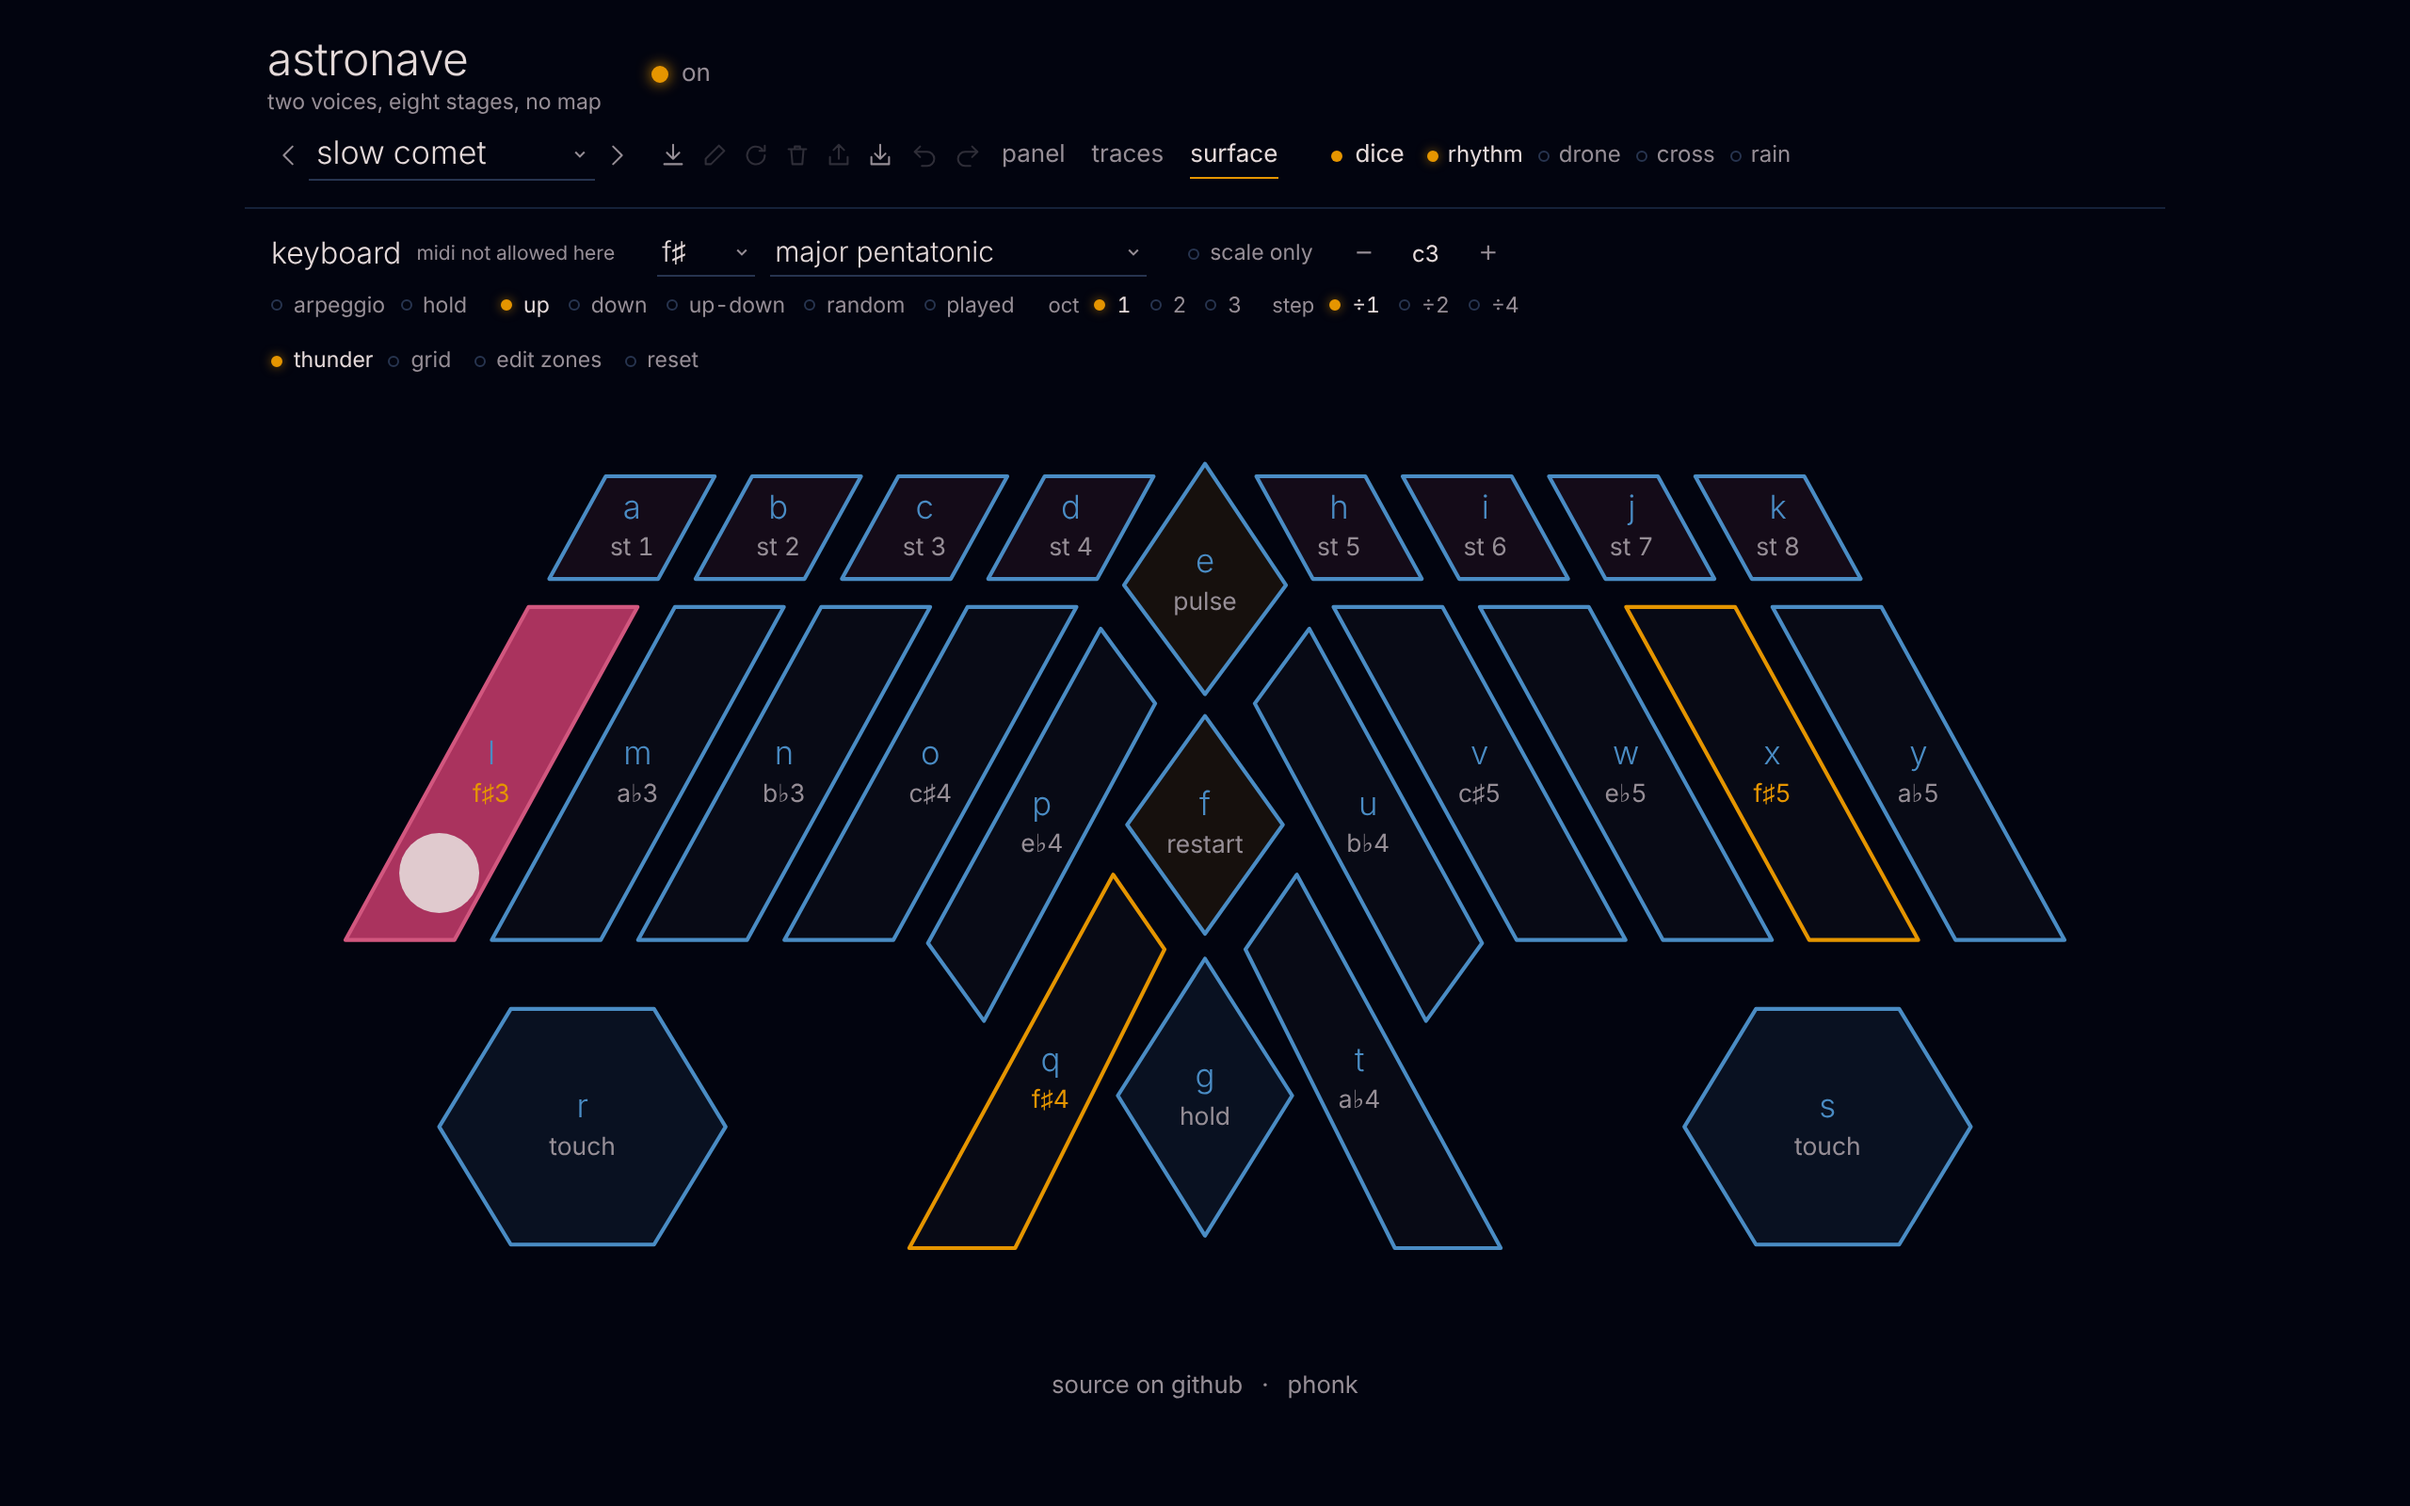
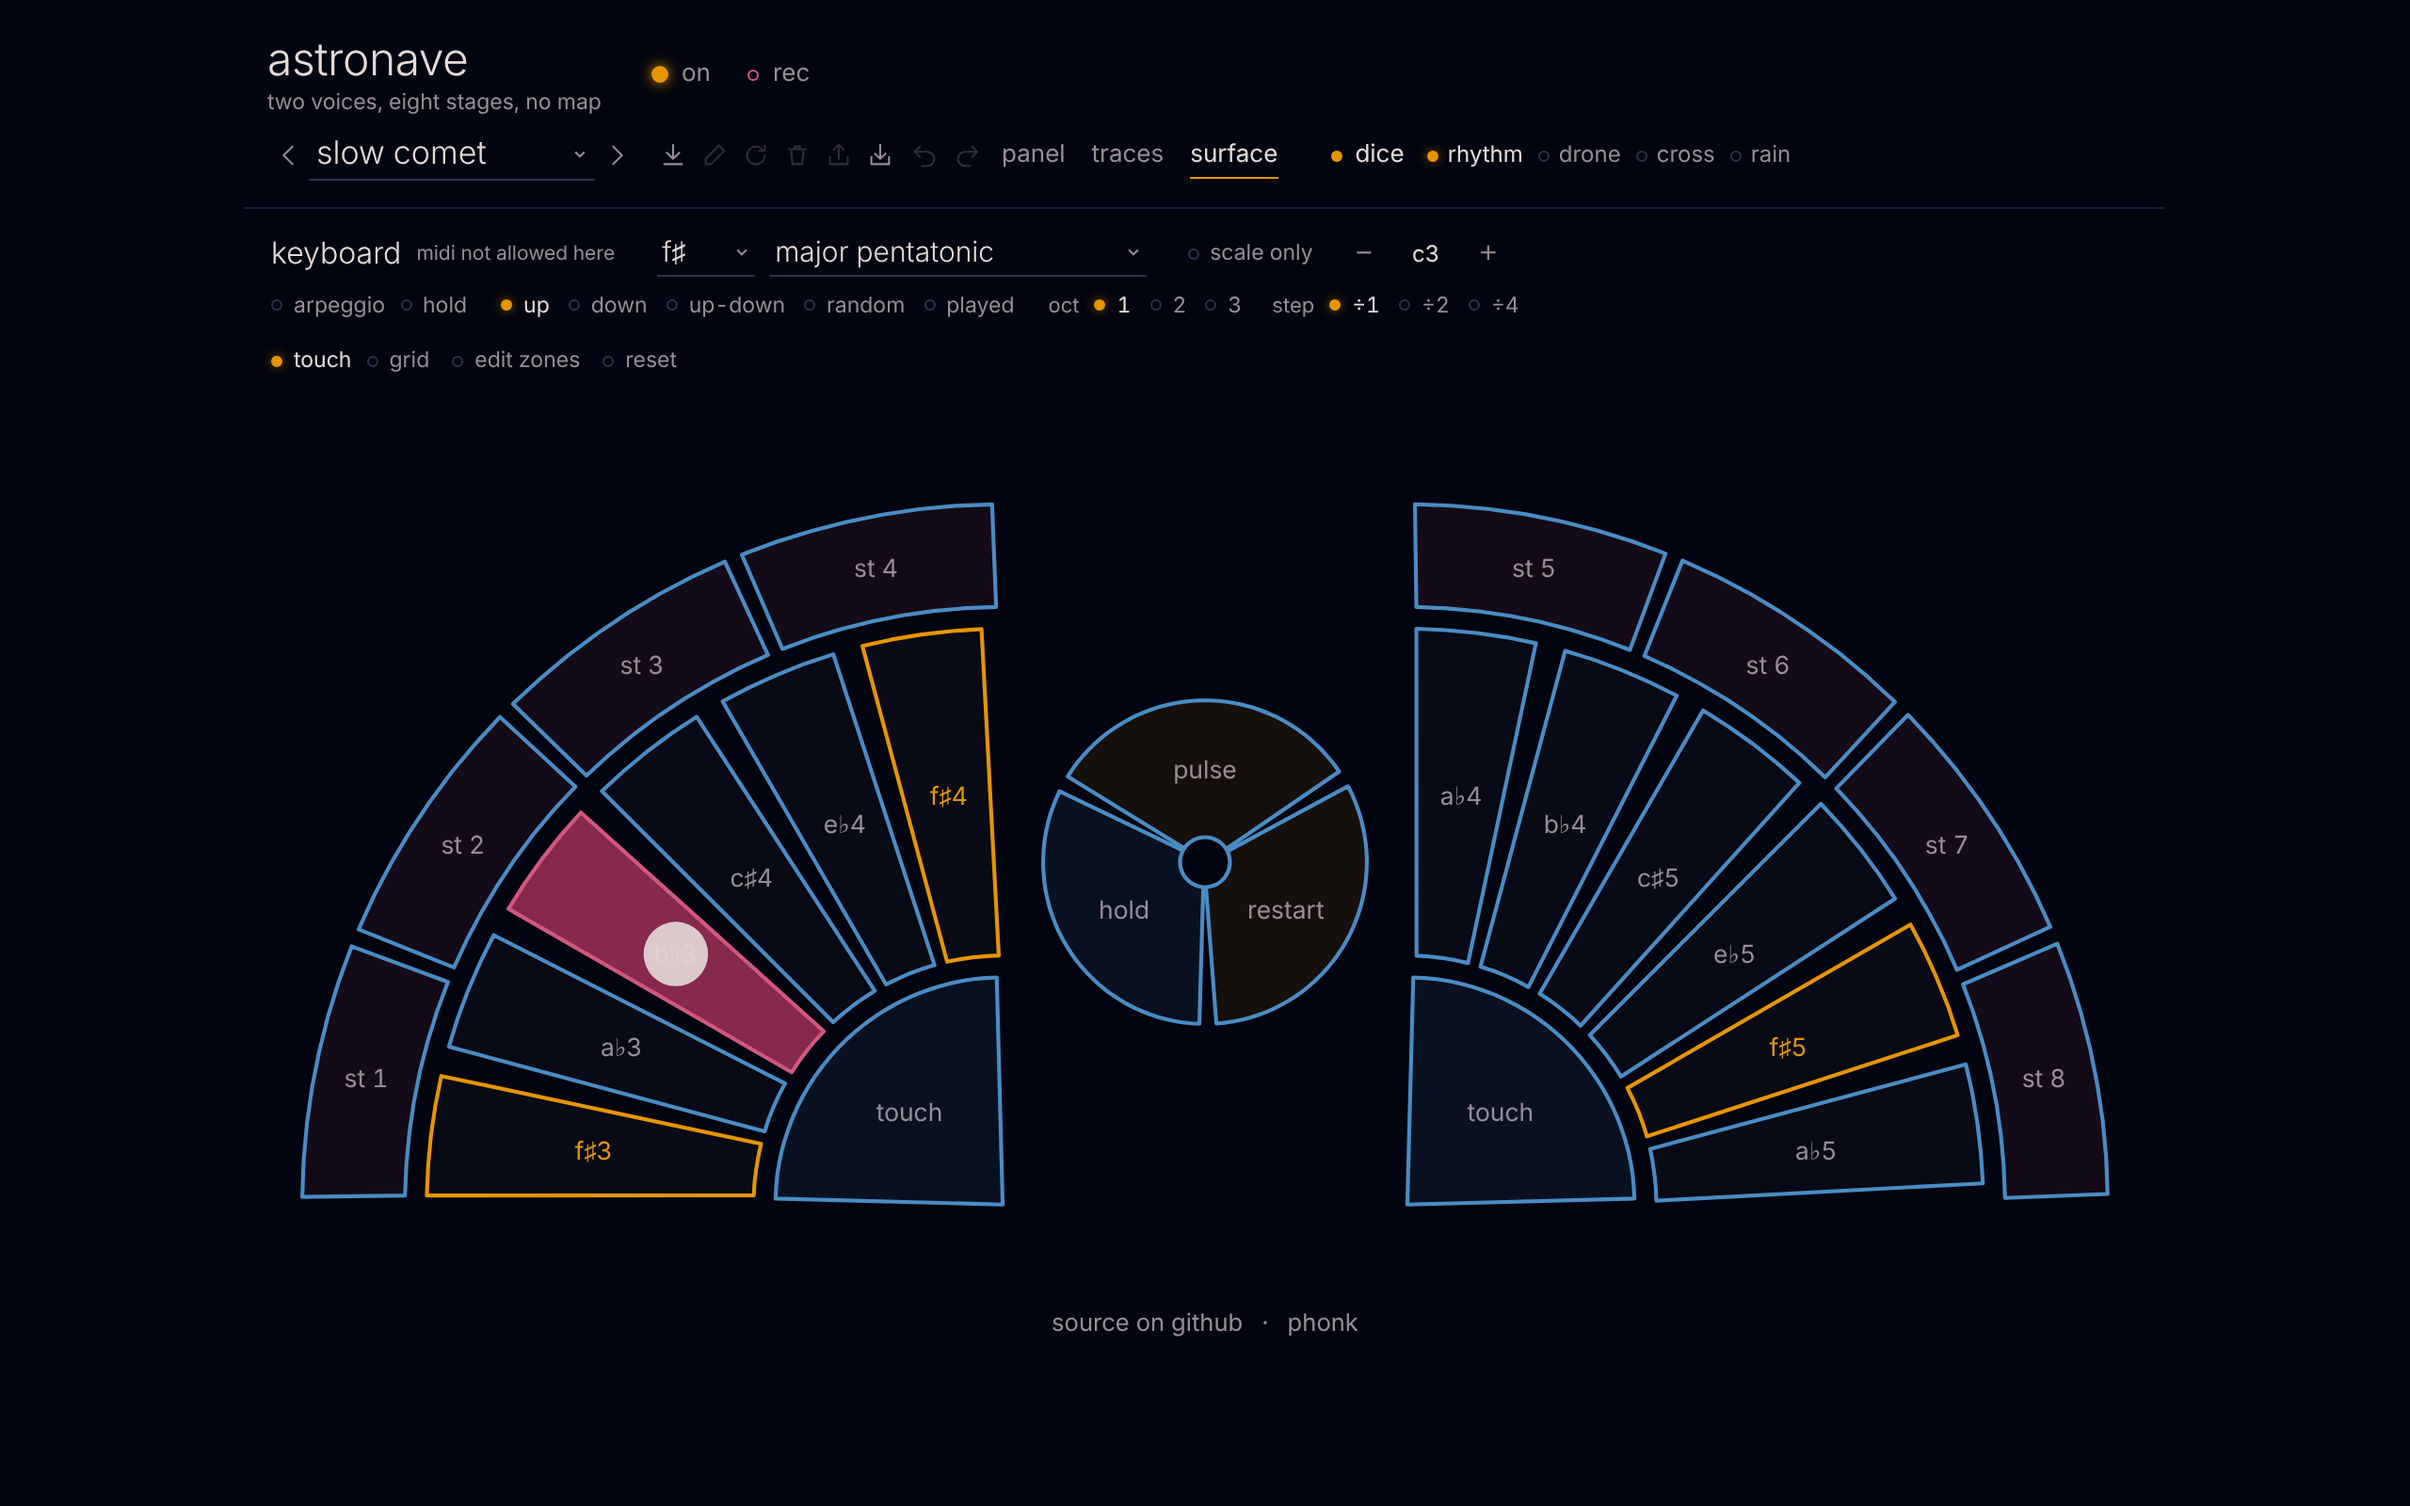
Surface: the touch layout, two fans of notes in place of the 222e plates
Claude-Session: https://claude.ai/code/session_01PvgmHvwhiyFcCBxUVUBzGg

diff --git a/index.html b/index.html
@@ -592,7 +592,7 @@ body{font-weight:400;font-variant-numeric:tabular-nums}
     <div class="keys" id="keys"></div>
     <div class="surf" id="surf">
       <div class="sftool">
-        <div class="seg" id="sfLay" role="group" aria-label="Surface layout"><button class="chip" data-l="222e">Thunder</button><button class="chip" data-l="grid">Grid</button></div>
+        <div class="seg" id="sfLay" role="group" aria-label="Surface layout"><button class="chip" data-l="touch">Touch</button><button class="chip" data-l="grid">Grid</button></div>
         <button class="chip" id="sfEdit" aria-pressed="false">Edit zones</button>
         <button class="chip" id="sfReset">Reset</button>
         <div class="zed" id="zed" hidden></div>
@@ -1866,30 +1866,33 @@ function dgFrame(ts, running) {
   }
 }
 
-/* ---------------- zone surface (222e style), configurable per zone ---------------- */
+/* ---------------- zone surface, configurable per zone ---------------- */
 const SF_ROLES = [['note', 'Note'], ['stage', 'Stage'], ['pulse', 'Pulse'], ['restart', 'Restart'], ['touch', 'Touch'], ['hold', 'Hold'], ['off', 'Off']];
-function sfMirror(z, id) { return { id, pts: z.pts.map(([x, y]) => [1200 - x, y]) }; }
-function sfHex(cx, cy, r) { const p = []; for (let k = 0; k < 6; k++) { const a = k * Math.PI / 3; p.push([cx + r * Math.cos(a), cy + r * Math.sin(a) * 0.95]); } return p; }
 const SF_LAYOUTS = (() => {
   const L = {};
-  // 222e: left half drawn, right half mirrored
-  const left = {};
-  const sl = 0.55, bar = (x, y0, y1) => [[x - sl * (y0 - 135), y0], [x + 70 - sl * (y0 - 135), y0], [x + 70 - sl * (y1 - 135), y1], [x - sl * (y1 - 135), y1]];
-  'ABCD'.split('').forEach((id, i) => { const x = 215 + i * 94; left[id] = { id, pts: [[x, 52], [x + 70, 52], [x + 70 - sl * 66, 118], [x - sl * 66, 118]] }; });
-  'LMNO'.split('').forEach((id, i) => { left[id] = { id, pts: bar(166 + i * 94, 136, 350) }; });
-  left.P = { id: 'P', pts: [[533, 150], [568, 198], [458, 402], [422, 352]] };
-  left.Q = { id: 'Q', pts: [[541, 308], [574, 356], [478, 548], [410, 548]] };
-  left.R = { id: 'R', pts: sfHex(200, 470, 92) };
-  const mid = { E: [[600, 44], [652, 122], [600, 192], [548, 122]], F: [[600, 206], [650, 276], [600, 346], [550, 276]], G: [[600, 362], [656, 450], [600, 540], [544, 450]] };
-  const pair = { A: 'K', B: 'J', C: 'I', D: 'H', L: 'Y', M: 'X', N: 'W', O: 'V', P: 'U', Q: 'T', R: 'S' };
-  const z = [];
-  Object.values(left).forEach(q => { z.push(q); z.push(sfMirror(q, pair[q.id])); });
-  Object.entries(mid).forEach(([id, pts]) => z.push({ id, pts }));
-  const def = {};
-  'LMNOPQTUVWXY'.split('').forEach((id, i) => def[id] = { role: 'note', v: i });
-  'ABCDHIJK'.split('').forEach((id, i) => def[id] = { role: 'stage', v: i });
-  Object.assign(def, { E: { role: 'pulse', v: 0 }, F: { role: 'restart', v: 0 }, G: { role: 'hold', v: 0 }, R: { role: 'touch', v: 0 }, S: { role: 'touch', v: 0 } });
-  L['222e'] = { name: 'Thunder', w: 1200, h: 600, zones: z, def };
+  // touch: two fans of notes, one per hand, opening from the bottom; a thin outer arc for the MARF stages;
+  // a quarter disc under each palm for Touch; a round control in the middle
+  const rad = Math.PI / 180;
+  const sector = (id, cx, cy, r1, r2, a0, a1) => {
+    const pts = [], st = 3;
+    for (let a = a0; a <= a1 + 0.01; a += Math.min(st, a1 - a0) || st) pts.push([cx + r2 * Math.cos(a * rad), cy + r2 * Math.sin(a * rad)]);
+    if (r1 > 0) for (let a = a1; a >= a0 - 0.01; a -= st) pts.push([cx + r1 * Math.cos(a * rad), cy + r1 * Math.sin(a * rad)]); else pts.push([cx, cy]);
+    const am = (a0 + a1) / 2 * rad, rm = r1 > 0 ? (r1 + r2) / 2 : r2 * 0.58;
+    return { id, pts: pts.map(p => [Math.round(p[0] * 10) / 10, Math.round(p[1] * 10) / 10]), c: [cx + rm * Math.cos(am), cy + rm * Math.sin(am)], rad: { cx, cy, r1, r2 } };
+  };
+  const z = [], def = {}, CY = 520, CXL = 470, CXR = 730, gp = 0.9;
+  for (let i = 0; i < 6; i++) {
+    z.push(sector('n' + i, CXL, CY, 160, 370, 180 + i * 15 + gp, 195 + i * 15 - gp)); def['n' + i] = { role: 'note', v: i };
+    z.push(sector('n' + (6 + i), CXR, CY, 160, 370, 270 + i * 15 + gp, 285 + i * 15 - gp)); def['n' + (6 + i)] = { role: 'note', v: 6 + i };
+  }
+  for (let i = 0; i < 4; i++) {
+    z.push(sector('s' + i, CXL, CY, 384, 450, 180 + i * 22.5 + gp * 0.7, 202.5 + i * 22.5 - gp * 0.7)); def['s' + i] = { role: 'stage', v: i };
+    z.push(sector('s' + (4 + i), CXR, CY, 384, 450, 270 + i * 22.5 + gp * 0.7, 292.5 + i * 22.5 - gp * 0.7)); def['s' + (4 + i)] = { role: 'stage', v: 4 + i };
+  }
+  z.push(sector('tl', CXL, CY, 0, 146, 181.5, 268.5)); def.tl = { role: 'touch', v: 0 };
+  z.push(sector('tr', CXR, CY, 0, 146, 271.5, 358.5)); def.tr = { role: 'touch', v: 0 };
+  [['pulse', 212, 328], ['restart', 332, 448], ['hold', 92, 208]].forEach(([role, a0, a1]) => { z.push(sector('c_' + role, 600, 300, 16, 104, a0, a1)); def['c_' + role] = { role, v: 0 }; });
+  L.touch = { name: 'Touch', w: 1200, h: 560, zones: z, def };
   // grid: 3 rows x 8, rows go up a fourth (3 scale steps)
   const g = [], gd = {};
   for (let r = 0; r < 3; r++) for (let c = 0; c < 8; c++) {
@@ -1899,7 +1902,7 @@ const SF_LAYOUTS = (() => {
   L.grid = { name: 'Grid', w: 1180, h: 580, zones: g, def: gd };
   return L;
 })();
-let sfLayout = '222e', sfMaps = {}, sfEdit = false, sfSelZ = null;
+let sfLayout = 'touch', sfMaps = {}, sfEdit = false, sfSelZ = null;
 try { const j = JSON.parse(localStorage.getItem('phonk-zones') || '{}'); if (j.layout && SF_LAYOUTS[j.layout]) sfLayout = j.layout; sfMaps = j.maps || {}; } catch (e) {}
 function sfSave() { try { localStorage.setItem('phonk-zones', JSON.stringify({ layout: sfLayout, maps: sfMaps })); } catch (e) {} }
 const sfCfg = id => (sfMaps[sfLayout] && sfMaps[sfLayout][id]) || SF_LAYOUTS[sfLayout].def[id] || { role: 'off', v: 0 };
@@ -1918,14 +1921,13 @@ function sfRender() {
   sfSvg.setAttribute('viewBox', '0 0 ' + lay.w + ' ' + lay.h);
   sfSvg.innerHTML = ''; sfEls = {};
   lay.zones.forEach(z => {
-    const c = sfCfg(z.id), cx = z.pts.reduce((s, p) => s + p[0], 0) / z.pts.length, cy = z.pts.reduce((s, p) => s + p[1], 0) / z.pts.length;
+    const c = sfCfg(z.id), cx = z.c ? z.c[0] : z.pts.reduce((s, p) => s + p[0], 0) / z.pts.length, cy = z.c ? z.c[1] : z.pts.reduce((s, p) => s + p[1], 0) / z.pts.length;
     const isRoot = c.role === 'note' && ((sfNote(c.v) - state.root) % 12 + 12) % 12 === 0;
     const pg = document.createElementNS(NS, 'polygon');
     pg.setAttribute('points', z.pts.map(p => p.join(',')).join(' '));
     pg.setAttribute('class', 'z ' + c.role + (isRoot ? ' root' : '') + (sfSelZ === z.id && sfEdit ? ' sel' : '') + (c.role === 'note' && state.arpOn === 1 && held.includes(sfNote(c.v)) ? ' held' : ''));
     sfSvg.appendChild(pg);
-    if (sfLayout === '222e') { const t = document.createElementNS(NS, 'text'); t.setAttribute('x', cx); t.setAttribute('y', cy - 6); t.setAttribute('class', 'zl'); t.textContent = z.id; sfSvg.appendChild(t); }
-    const t2 = document.createElementNS(NS, 'text'); t2.setAttribute('x', cx); t2.setAttribute('y', cy + (sfLayout === '222e' ? 18 : 6)); t2.setAttribute('class', 'zr' + (isRoot ? ' root' : '')); t2.textContent = sfText(c); sfSvg.appendChild(t2);
+    const t2 = document.createElementNS(NS, 'text'); t2.setAttribute('x', cx); t2.setAttribute('y', cy + 6); t2.setAttribute('class', 'zr' + (isRoot ? ' root' : '')); t2.textContent = sfText(c); sfSvg.appendChild(t2);
     sfEls[z.id] = pg;
   });
   sfFingers = {};
@@ -1940,7 +1942,7 @@ function sfEditor() {
   ed.hidden = false;
   if (!sfSelZ) { ed.innerHTML = '<span>Tap a zone to set what it does</span>'; return; }
   const c = sfCfg(sfSelZ), hasV = c.role === 'note' || c.role === 'stage';
-  ed.innerHTML = `<b>${sfLayout === '222e' ? sfSelZ : 'Zone'}</b><div class="seg" role="group" aria-label="What this zone does">${SF_ROLES.map(([r, n]) => `<button class="chip${c.role === r ? ' on' : ''}" data-r="${r}" aria-pressed="${c.role === r}">${n}</button>`).join('')}</div>` +
+  ed.innerHTML = `<b>Zone</b><div class="seg" role="group" aria-label="What this zone does">${SF_ROLES.map(([r, n]) => `<button class="chip${c.role === r ? ' on' : ''}" data-r="${r}" aria-pressed="${c.role === r}">${n}</button>`).join('')}</div>` +
     (hasV ? `<button class="oct" id="zvDn" aria-label="Lower">−</button><span class="octl">${c.role === 'note' ? sfText(c) + ' · ' + (c.v >= 0 ? '+' : '') + c.v : c.v + 1}</span><button class="oct" id="zvUp" aria-label="Higher">+</button>` : '');
   ed.querySelectorAll('[data-r]').forEach(b => b.addEventListener('click', () => sfSet(sfSelZ, { role: b.dataset.r, v: b.dataset.r === 'stage' ? Math.max(0, Math.min(7, c.v)) : c.v })));
   if (hasV) {
@@ -1966,7 +1968,7 @@ function sfLight(id) {
   if (f < 0) { el.classList.remove('lit'); el.style.fill = ''; return; }
   el.classList.add('lit'); el.style.fill = 'rgba(194,58,106,' + (0.18 + 0.82 * f).toFixed(2) + ')';
 }
-function sfHit(e) { const p = sfPt(e), lay = SF_LAYOUTS[sfLayout]; const z = lay.zones.find(z => sfInside(z.pts, p.x, p.y)); if (!z) return null; const ys = z.pts.map(q => q[1]), y0 = Math.min(...ys), y1 = Math.max(...ys); return { z, y: (p.y - y0) / (y1 - y0 || 1), p }; }
+function sfHit(e) { const p = sfPt(e), lay = SF_LAYOUTS[sfLayout]; const z = lay.zones.find(z => sfInside(z.pts, p.x, p.y)); if (!z) return null; if (z.rad) { const d = Math.hypot(p.x - z.rad.cx, p.y - z.rad.cy); return { z, y: Math.max(0, Math.min(1, (z.rad.r2 - d) / (z.rad.r2 - z.rad.r1 || 1))), p }; } const ys = z.pts.map(q => q[1]), y0 = Math.min(...ys), y1 = Math.max(...ys); return { z, y: (p.y - y0) / (y1 - y0 || 1), p }; }
 const sfPtrs = new Map();
 let sfFingers = {};
 function sfFinger(pid, p, f2) {

diff --git a/README.md b/README.md
@@ -24,7 +24,7 @@ Pick a scene from the list at the top, or press **dice** for a random one (rhyth
 
 ![astronave, traces view](screenshot-traces.png)
 
-**surface**: a big touch surface made of zones, after the Buchla 222e. Each zone can play a note of the scale, address a MARF stage, fire the pulser, restart the MARF, send Touch only, or toggle hold. A zone lights up more the harder you press. Press **edit zones** to change what a zone does. There is also a plain grid layout.
+**surface**: a big touch surface made of zones. The **touch** layout has two fans of notes, one per hand, a thin outer arc for the eight MARF stages, a quarter disc under each palm that sends Touch only, and a round control in the middle for pulse, restart and hold. In a fan, the closer to the palm you touch, the stronger the note; a zone lights up more the harder you press. Press **edit zones** to change what a zone does: a note of the scale, a MARF stage, the pulser, restart, Touch only, or hold. There is also a plain grid layout.
 
 ![astronave, surface view](screenshot-surface.png)
 
